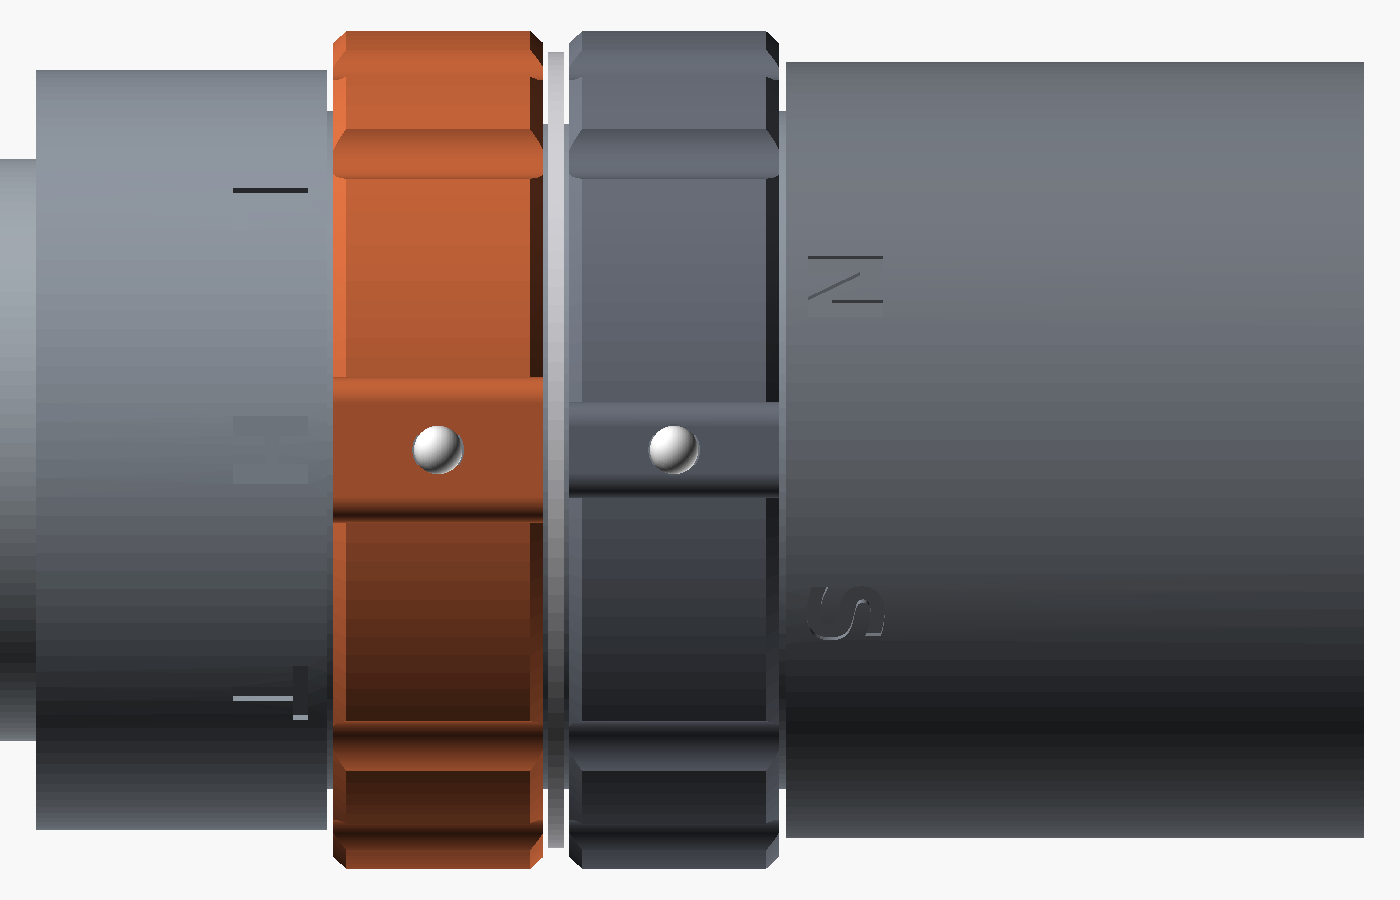
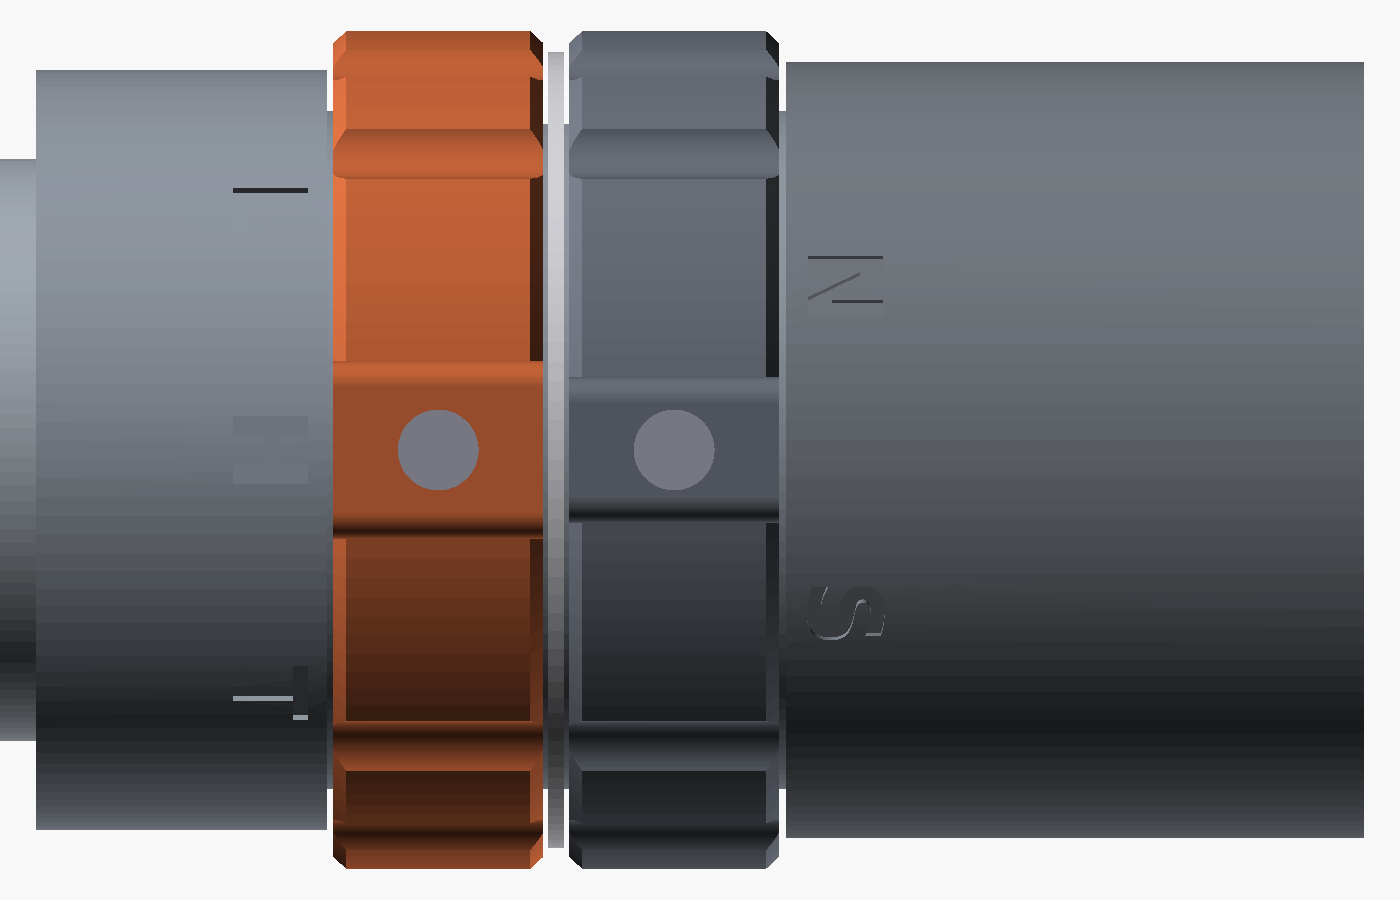
Misumi BPK3 ball plunger detent, taller tab

Changed region(s): [[0.215, 0.4044, 0.5529, 0.6222]]

diff --git a/mech/flashlight.py b/mech/flashlight.py
@@ -60,9 +60,17 @@ class Params:
     spacer_gap: float = 0.15
     key_depth: float = 0.4  # seat flat at +X, only under the spacer
     ring_chamfer: float = 0.4
-    tab_h: float = 2.0  # tab above ring OD
-    tab_w: float = 4.5
-    ball_d: float = 1.5  # detent ball, M2 set screw + spring behind it in the tab
+    tab_h: float = 3.4  # tab above ring OD (holds the 5 mm ball plunger)
+    tab_w: float = 5.5  # ring 2: -1.0
+    # detent: Misumi BPK3 ball plunger (M3, L 5, ball Ø2 protrudes 1.0,
+    # stroke 0.5) screwed in from outside, bottoms on a shoulder at plunger_r
+    plunger_m: float = 3.0
+    plunger_tap: float = 2.5
+    plunger_l: float = 5.0
+    ball_d: float = 2.0
+    ball_out: float = 1.0
+    plunger_r: float = 11.2  # radius of plunger inner end (shoulder)
+    dimple_d: float = 1.5  # ball sits on the edge → sinks ~0.34
     magnet_d: float = 3.0  # disc, radial: supermagnete S-03-01-N (N48 Ø3×1)
     magnet_t: float = 1.0
     magnet_angle: float = 270.0  # bottom, over the sensors
@@ -199,7 +207,7 @@ def head():
     for n, pos in ((1, P.ring1_pos), (2, P.ring2_pos)):
         zc = sum(ring_z(n)) / 2
         for a in pos:
-            h = h.cut(radial_cyl(1.2, P.seat_d / 2 - 0.4, P.seat_d / 2 + E,
+            h = h.cut(radial_cyl(P.dimple_d, P.seat_d / 2 - 0.6, P.seat_d / 2 + E,
                                  P.tab_angle + a, zc))
     # level ring (ring1) marks on the shoulder behind it
     for a, txt in zip(P.ring1_pos, P.ring1_marks):
@@ -253,15 +261,17 @@ def ring(n):
                           (P.ring_od / 2 + 1.0) * math.sin(ar))
                   .circle(1.5).extrude(P.ring_w + 2 * E))
     # tab: glove lug, ring 2 narrower so they're told apart by feel
-    tw = P.tab_w if n == 1 else P.tab_w - 1.5
+    tw = P.tab_w if n == 1 else P.tab_w - 1.0
     tab = (box(-tw / 2, tw / 2, P.ring_od / 2 - 1.0,
                P.ring_od / 2 + P.tab_h, z0, z1)
            .edges("|Z").fillet(0.8)
            .rotate((0, 0, 0), (0, 0, 1), P.tab_angle - 90))
     r = r.union(tab)
     r = r.cut(cyl(P.ring_id, z0 - E, z1 + E))
-    # detent: radial hole through the tab (ball + spring + M2 set screw)
-    r = r.cut(radial_cyl(P.ball_d + 0.1, P.ring_id / 2 - E,
+    # detent: Ø ball+0.2 through to the shoulder, M3 tapped above it
+    r = r.cut(radial_cyl(P.ball_d + 0.2, P.ring_id / 2 - E,
+                         P.plunger_r + E, P.tab_angle, zc))
+    r = r.cut(radial_cyl(P.plunger_tap, P.plunger_r,
                          P.ring_od / 2 + P.tab_h + E, P.tab_angle, zc))
     # magnet pocket from the inside
     return r.cut(radial_cyl(P.magnet_d + 0.05, P.ring_id / 2 - E,
@@ -329,13 +339,17 @@ def components():
                        P.ring_id / 2 + 0.05 + P.magnet_t, P.magnet_angle, zc)
         mags = m if mags is None else mags.union(m)
         a = math.radians(P.tab_angle)
-        rb = P.seat_d / 2 + P.ball_d / 2 - 0.25
+        rb = P.seat_d / 2 - 0.34 + P.ball_d / 2
+        pl = radial_cyl(P.plunger_m, P.plunger_r, P.plunger_r + P.plunger_l,
+                        P.tab_angle, zc)
+        plungers = pl if n == 1 else plungers.union(pl)
         b = (cq.Workplane("XY").sphere(P.ball_d / 2)
              .translate((rb * math.cos(a), rb * math.sin(a), zc)))
         balls = b if balls is None else balls.union(b)
     c["ntc"] = cyl(1.5, Z.shelf1 + P.ntc_hole[1] - 1.6, Z.shelf1 + P.ntc_hole[1] - 0.1)
     c["magnets"] = mags
     c["balls"] = balls
+    c["plungers"] = plungers
     c["head_spring"] = cyl(6.0, Z.cell_top, Z.driver_rear).cut(
         cyl(4.8, Z.cell_top - E, Z.driver_rear + E))
     c["cell"] = cyl(P.cell_d, Z.cell_bot, Z.cell_top - 1.0).union(
@@ -365,7 +379,7 @@ COLORS = {  # rgba, used for STEP assembly and renders
     "spine": (0.1, 0.45, 0.2, 1), "ring1": (0.75, 0.38, 0.22, 1),
     "ring2": (0.4, 0.42, 0.46, 1), "spacer": (0.8, 0.8, 0.82, 1), "hall1": (0.1, 0.1, 0.1, 1),
     "hall2": (0.1, 0.1, 0.1, 1), "magnets": (0.7, 0.7, 0.75, 1),
-    "balls": (0.9, 0.9, 0.9, 1), "ntc": (0.2, 0.2, 0.6, 1), "head_spring": (0.8, 0.7, 0.3, 1),
+    "balls": (0.9, 0.9, 0.9, 1), "plungers": (0.6, 0.6, 0.65, 1), "ntc": (0.2, 0.2, 0.6, 1), "head_spring": (0.8, 0.7, 0.3, 1),
     "cell": (0.2, 0.35, 0.75, 1), "tail_spring": (0.8, 0.7, 0.3, 1),
     "tail_pcb": (0.1, 0.45, 0.2, 1), "tail_ring": (0.8, 0.65, 0.3, 1), "usb_c": (0.75, 0.75, 0.78, 1),
     "clicky": (0.1, 0.1, 0.1, 1), "boot": (0.2, 0.2, 0.2, 1),

diff --git a/docs/flashlight-plan.md b/docs/flashlight-plan.md
@@ -83,7 +83,7 @@ How it works:
 - Overall length estimate ~95–105 mm. Optic = Carclo 20 mm (Ø20, 9.9 mm tall) → head OD ~23.5 mm. Get STEP from carclo-optics.com for CAD.
 - Spine PCB soldered 90° to head driver (large pads or 1.27 mm pin header — hand-solderable). No wall penetrations: rings act through the 1.5 mm seat wall.
 - Bezel cup (M21×0.75 on head stub, bottoms on stub face, O-ring 19×1) clamps optic and retains both rings + spacer on the Ø21 seat.
-- Ring: 6061, OD 26, 16 flutes, tab +2 mm (ring2 tab narrower → tell apart by feel). Detent ball in tab → dimples in seat. Magnet opposite tab.
+- Ring: 6061, OD 26, 16 flutes, tab +3.4 mm, 5.5 wide (ring2 4.5 → tell apart by feel). Detent: Misumi **BPK3** ball plunger (M3, L 5, ball Ø2, stroke 0.5) screwed into the tab, bottoms on a shoulder at r 11.2 → Ø1.5 dimples in seat (ball sinks ~0.34). Magnet opposite tab.
 - LED shelf 6 mm solid (grew into unused cavity, no length cost, +~2.8 g). Heat path shelf → 1.5 mm seat wall ≈ 0.9 K/W (≈ +2.5 K vs full-wall head at ~5.4 W turbo heat) + stub thread → bezel cup. Acceptable.
 - Position marks CNC-engraved (0.5 mm cutter, 0.25 deep, DejaVu Bold 3.2 mm → stem 0.6 mm): L/H/T on head shoulder behind level ring, N/S on bezel cup in front of mode ring. Left/right as seen from top with beam pointing away. Same colour after anodize unless paint-filled.
 - Rings separated by a **keyed spacer washer** (0.5 mm, D-flat on a 0.4 mm seat flat) → each ring only rubs on stationary parts, can't drag the other. Ring edges chamfered 0.4 mm. Axial play ~0.35 mm per ring.
@@ -145,14 +145,14 @@ LCSC numbers marked ✓ were found on LCSC; others to verify/pick. Full table al
 | 14500 Li-ion **unprotected, button top** (flat top also fits), ≥ 3 A | battery shop | candidates: Vapcell K10 1000 mAh 8 A, Efest 1200 mAh 6 A. ⚠ Vapcell H10 from ~mid-2025: bad batches (fast self-discharge) → don't use |
 | Insulating washer, kapton / fish paper | generic | around head spring |
 | 2× disc magnet Ø3×1 mm N48, axial (S-03-01-N) | supermagnete.ch | epoxy into ring pocket, radial |
-| 2× steel ball 1.5 mm + spring + M2 set screw (stainless, low-magnetic) | Misumi / generic | detent in each ring tab |
+| 2× ball plunger **BPK3** (M3×5, stainless body, ball 1.4125 hardened) | Misumi Europe | detent in each ring tab, Loctite 243 |
 | O-rings, TPU USB plug | printed / generic | |
 | Head / bezel / 2 rings / body / tailcap, 6061 | JLCCNC | after FDM fit test |
 | Spacer washer 0.5 mm, D-flat | JLC sheet metal (stainless) or PTFE sheet | between rings |
 | UPDI adapter | USB-serial (CH340/CP2102) + 4.7 kΩ | |
 
 ## 5b. Hand assembly (user solders ≥0805 only)
-JLC places every SMD part (incl. TMAG5273, USB-C). By hand: LED wires, head/tail springs, spine↔driver joint, clicky leads, magnets (epoxy), detent balls/set screws.
+JLC places every SMD part (incl. TMAG5273, USB-C). By hand: LED wires, head/tail springs, spine↔driver joint, clicky leads, magnets (epoxy), ball plungers.
 
 ## 6. Plan / order of work
 
@@ -188,7 +188,7 @@ JLC places every SMD part (incl. TMAG5273, USB-C). By hand: LED wires, head/tail
 - [x] Threads: head-body **M20×1**, 6 mm; body-tail **M18×0.75**, 5 mm (lockout ¼ turn = 0.19 mm gap, ½ turn for margin); bezel ring **M21×0.5** internal (lathe-cut, non-ISO); tail retaining ring **M17×0.5** brass (= BODY contact). O-rings: head-body 17×1.5 on body collar, body-tail 18×1 internal in tailcap. All single-point on lathe, 6H/6g
 - [x] Glove-friendly mode selection → 2 magnetic rings + TMAG5273 (modelled)
 - [ ] Bench-test ring sensing: Adafruit 6489 TMAG5273 breakout + magnet + cell can nearby
-- [ ] Detent force: ball/spring/set screw sizes, dimple depth
+- [x] Detent: Misumi BPK3, 1.0–2.0 N; ~0.06 mm preload in detent, 0.4 of 0.5 stroke on the land (ring pushed against seat). Shoulder depth ±0.05 critical
 - [x] CAD tool → **CadQuery** (STEP export for JLCCNC; preview via STL → openscad PNG)
 
 ## 10. Suggested repo layout

diff --git a/docs/sourcing.md b/docs/sourcing.md
@@ -44,19 +44,13 @@ TP4057, USB4125-GF-A, PCM13SMTR, EG1312AR; mouser.com 10139.
 - Upload via DigiKey *BOM Manager → Upload* or *Cart → Bulk add*, map column "Digi-Key Part Number" + "Quantity".
 - ⚠ NTC B57540G1103F000: bead diameter not confirmed (pocket in head is Ø1.8, param `ntc_hole`) → check datasheet, enlarge pocket if needed.
 
-## Detent hardware (not at DigiKey)
+## Detent hardware
 
-Per ring: 1 ball Ø1.5, 1 spring (OD ≤1.4, wire ~0.15–0.2, free length ~3 mm), 1 set screw M2×2.
-M2 tap drill = Ø1.6 = ball/spring bore → everything goes in through the threaded hole.
-
-| What | Where | Notes |
-|---|---|---|
-| Set screws, (balls) | **Misumi Europe** | MSSFS M2 stainless; Misumi springs start at OD 2 mm → too big for the Ø1.6 bore |
-| Set screws M2×2 A2/A4 stainless | **Bossard** (CH), Distrelec, Conrad | A2/A4 ≈ non-magnetic |
-| Springs | **Gutekunst Federn** (DE, catalogue, small qty) | stainless 1.4310 is slightly magnetic once cold-worked — OK, sits opposite the magnet |
-| Balls | bearing shops (e.g. kugellager-shop), Misumi | **ceramic (Si3N4/ZrO2) balls** = non-magnetic, hard; 316 steel soft; 440C magnetic |
-| Cheap prototyping | AliExpress assortments (ball 1–3 mm, mini springs, M2 set screws) | good enough for the FDM test rings |
-| Alternative all-in-one | ball spring plungers (Kipp K0314 / Ganter GN 615, M3) | check length vs tab (~4.4 mm radial wall at tab) |
+Misumi Europe **BPK3** ball plunger (short body, M3, L 5, ball Ø2, stroke 0.5,
+load 1.0–2.0 N, hex socket B 1.5), 1 per ring → order 4 (spares). Replaces
+ball + spring + set screw. Ball is EN 1.4125 (440C, magnetic) — sits at the tab,
+opposite the magnet/sensors; check field offset on the bench.
+Loctite 243 on the thread. Set screws no longer needed.
 
 Magnets: supermagnete.ch, N48 disc Ø3 × 1 mm (S-03-01-N), axial magnetisation.
 Optics: Kaidomain sells only its own generic TIRs, not Carclo → Carclo from DigiKey.
